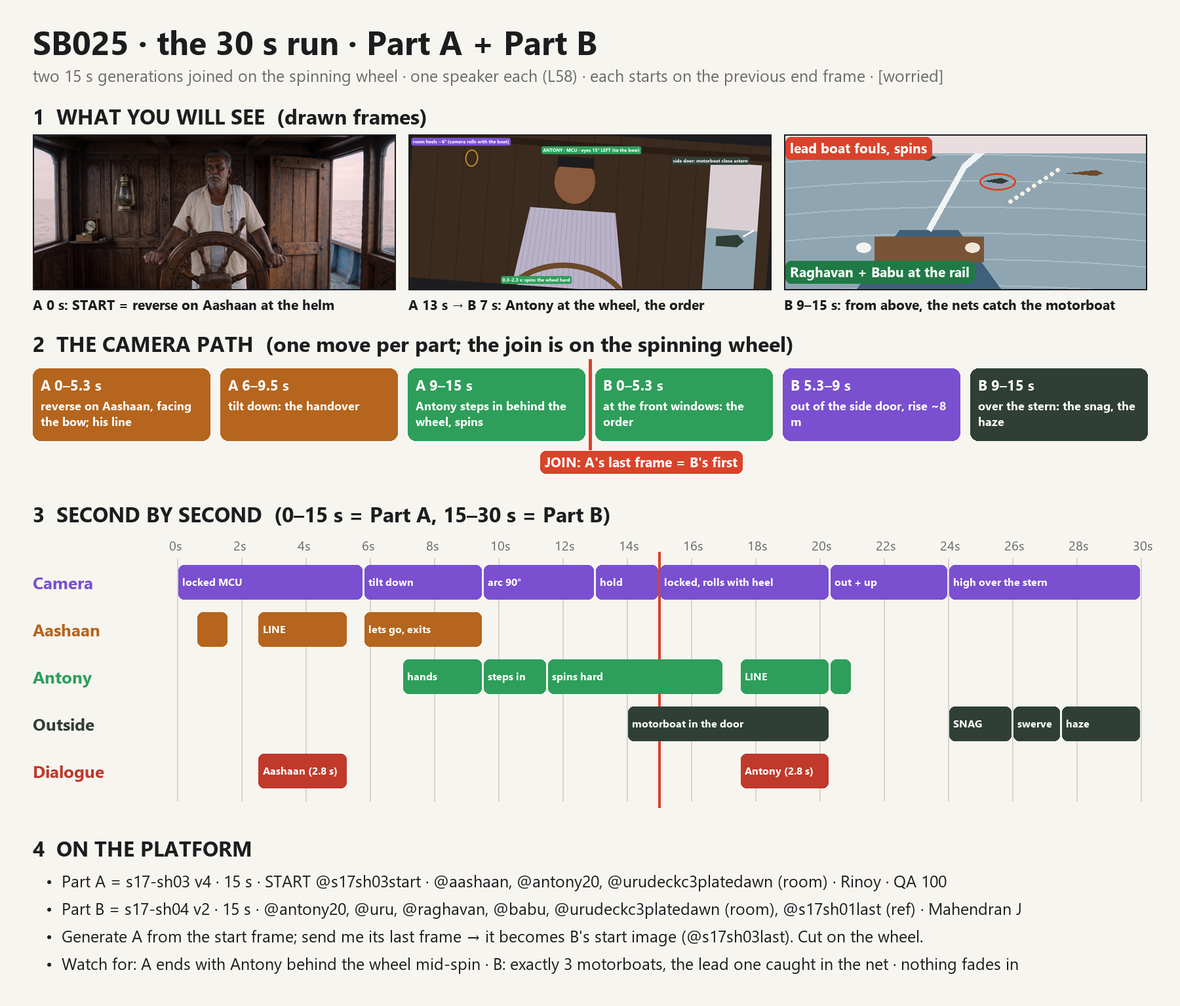
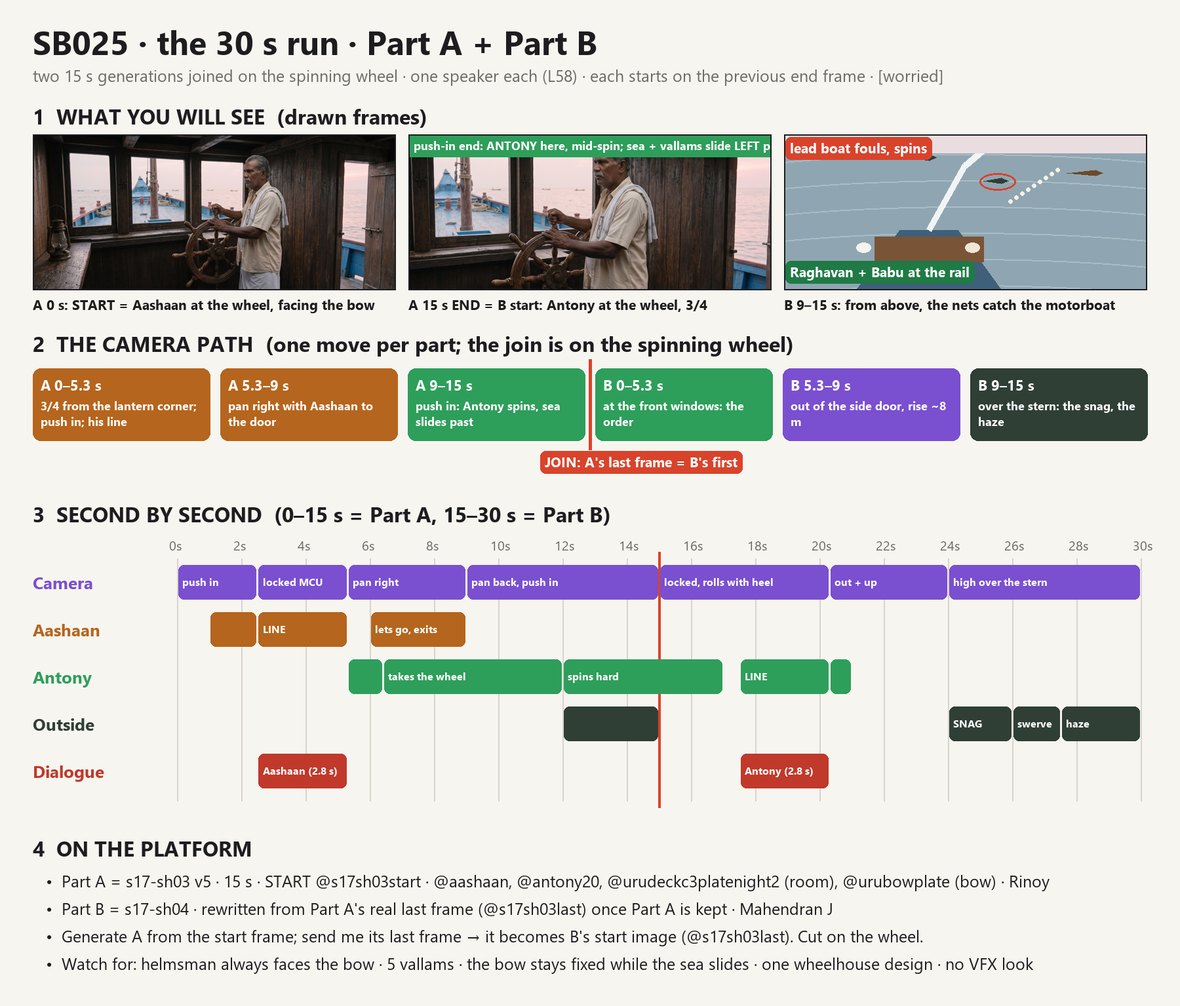
Ranjith: shot: s17-sh03 v5 (Part A in the new wheelhouse, 3/4 from the lantern corner, bow in the windows)

diff --git a/tools/shotsheets/s17-run-30s.py b/tools/shotsheets/s17-run-30s.py
@@ -1,4 +1,4 @@
-"""Clear sheet for the SB025 30 s run: Part A (s17-sh03 v2) + Part B (s17-sh04 v2), joined on the spinning wheel.
+"""Clear sheet for the SB025 30 s run: Part A (s17-sh03 v5) + Part B (s17-sh04 v2), joined on the spinning wheel.
 Reuses the drawn frames of the s17-sh03 and s17-sh04 sheets and draws the reveal from above."""
 from PIL import Image, ImageDraw, ImageFont
 import math
@@ -21,7 +21,8 @@ y0 = 155
 d.text((50, y0), "1  WHAT YOU WILL SEE  (drawn frames)", font=F(32, True), fill=INK)
 pw = (W - 140) // 3; ph = int(pw / 2.333)
 a = Image.open("scenes/showreel/attach/s17-sh03/00-START-s17sh03start.png").convert("RGB").resize((pw, ph))
-b = Image.open("scenes/showreel/storyboards/s17-sh04-clear.png").crop((50, 210, 1750, 210 + 728)).resize((pw, ph))
+b = Image.open("scenes/showreel/attach/s17-sh03/00-START-s17sh03start.png").convert("RGB").crop((700, 150, 2900, 150 + 943)).resize((pw, ph))
+bd = ImageDraw.Draw(b); bd.rectangle([0, 0, pw, 34], fill="#2e9e5b"); bd.text((8, 4), "push-in end: ANTONY here, mid-spin; sea + vallams slide LEFT past the bow", font=F(18, True), fill="white")
 # reveal from above (drawn)
 r = Image.new("RGB", (pw, ph), "#8fa6b2"); rd = ImageDraw.Draw(r)
 for k in range(6): rd.arc([-200, 30 + k * 40, pw + 200, 160 + k * 40], 200, 340, fill="#a9bcc5", width=2)
@@ -36,7 +37,7 @@ rd.polygon([(pw * .8, ph * .1), (pw * .85, ph * .08), (pw * .87, ph * .1), (pw *
 rd.rectangle([0, 0, pw, ph * .12], fill="#e9dde0")
 rd.ellipse([pw * .2, ph * .7, pw * .24, ph * .76], fill="#f3f3f0"); rd.ellipse([pw * .5, ph * .7, pw * .54, ph * .76], fill="#efe6d6")
 y = y0 + 50
-for i, (img, lab) in enumerate([(a, "A 0 s: START = reverse on Aashaan at the helm"), (b, "A 13 s → B 7 s: Antony at the wheel, the order"), (r, "B 9–15 s: from above, the nets catch the motorboat")]):
+for i, (img, lab) in enumerate([(a, "A 0 s: START = Aashaan at the wheel, facing the bow"), (b, "A 15 s END = B start: Antony at the wheel, 3/4"), (r, "B 9–15 s: from above, the nets catch the motorboat")]):
     x = 50 + i * (pw + 20); im.paste(img, (x, y)); d.rectangle([x, y, x + pw, y + ph], outline=INK, width=2)
     d.text((x, y + ph + 8), lab, font=F(21, True), fill=INK)
 x3 = 50 + 2 * (pw + 20)
@@ -45,7 +46,7 @@ tag((x3 + 8, y + 8), "lead boat fouls, spins", JOIN); tag((x3 + 8, y + ph - 40),
 # 2. the camera path
 y1 = y + ph + 60
 d.text((50, y1), "2  THE CAMERA PATH  (one move per part; the join is on the spinning wheel)", font=F(32, True), fill=INK)
-steps = [("A 0–5.3 s", "reverse on Aashaan, facing the bow; his line", AAS), ("A 6–9.5 s", "tilt down: the handover", AAS), ("A 9–15 s", "Antony steps in behind the wheel, spins", ANT),
+steps = [("A 0–5.3 s", "3/4 from the lantern corner; push in; his line", AAS), ("A 5.3–9 s", "pan right with Aashaan to the door", AAS), ("A 9–15 s", "push in: Antony spins, sea slides past", ANT),
          ("B 0–5.3 s", "at the front windows: the order", ANT), ("B 5.3–9 s", "out of the side door, rise ~8 m", CAM), ("B 9–15 s", "over the stern: the snag, the haze", MOT)]
 bx = 50; by = y1 + 60; bw = (W - 100 - 5 * 16) // 6
 for i, (t1, t2, col) in enumerate(steps):
@@ -64,10 +65,10 @@ d.line([jx, by - 14, jx, by + 124], fill=JOIN, width=5); tag((jx - 70, by + 130)
 y2 = by + 200
 d.text((50, y2), "3  SECOND BY SECOND  (0–15 s = Part A, 15–30 s = Part B)", font=F(32, True), fill=INK)
 tx, tw_ = 270, 1470; ty = y2 + 90; S = 30
-rows = [("Camera", CAM, [(0, 5.8, "locked MCU"), (5.8, 9.5, "tilt down"), (9.5, 13, "arc 90°"), (13, 15, "hold"), (15, 20.3, "locked, rolls with heel"), (20.3, 24, "out + up"), (24, 30, "high over the stern")]),
-        ("Aashaan", AAS, [(0.6, 1.6, "glance"), (2.5, 5.3, "LINE"), (5.8, 9.5, "lets go, exits")]),
-        ("Antony", ANT, [(7, 9.5, "hands"), (9.5, 11.5, "steps in"), (11.5, 17, "spins hard"), (17.5, 20.3, "LINE"), (20.3, 21, "glance")]),
-        ("Outside", MOT, [(14, 20.3, "motorboat in the door"), (24, 26, "SNAG"), (26, 27.5, "swerve"), (27.5, 30, "haze")]),
+rows = [("Camera", CAM, [(0, 2.5, "push in"), (2.5, 5.3, "locked MCU"), (5.3, 9, "pan right"), (9, 15, "pan back, push in"), (15, 20.3, "locked, rolls with heel"), (20.3, 24, "out + up"), (24, 30, "high over the stern")]),
+        ("Aashaan", AAS, [(1, 2.5, "glance, nod"), (2.5, 5.3, "LINE"), (6, 9, "lets go, exits")]),
+        ("Antony", ANT, [(5.3, 6.4, "steps in"), (6.4, 12, "takes the wheel"), (12, 17, "spins hard"), (17.5, 20.3, "LINE"), (20.3, 21, "glance")]),
+        ("Outside", MOT, [(12, 15, "sea slides past bow"), (24, 26, "SNAG"), (26, 27.5, "swerve"), (27.5, 30, "haze")]),
         ("Dialogue", LINE, [(2.5, 5.3, "Aashaan (2.8 s)"), (17.5, 20.3, "Antony (2.8 s)")])]
 for sec in range(0, 31, 2):
     x = tx + tw_ * sec / S; d.line([x, ty, x, ty + 72 * len(rows) + 10], fill="#d8d4cc", width=2); d.text((x - 12, ty - 34), f"{sec}s", font=F(20), fill=GREY)
@@ -83,10 +84,10 @@ for i, (lab, col, segs) in enumerate(rows):
 # 4. platform
 y3 = ty + 72 * len(rows) + 60
 d.text((50, y3), "4  ON THE PLATFORM", font=F(32, True), fill=INK)
-lines = ["Part A = s17-sh03 v4 · 15 s · START @s17sh03start · @aashaan, @antony20, @urudeckc3platedawn (room) · Rinoy · QA 100",
-         "Part B = s17-sh04 v2 · 15 s · @antony20, @uru, @raghavan, @babu, @urudeckc3platedawn (room), @s17sh01last (ref) · Mahendran J",
+lines = ["Part A = s17-sh03 v5 · 15 s · START @s17sh03start · @aashaan, @antony20, @urudeckc3platenight2 (room), @urubowplate (bow) · Rinoy",
+         "Part B = s17-sh04 · rewritten from Part A's real last frame (@s17sh03last) once Part A is kept · Mahendran J",
          "Generate A from the start frame; send me its last frame → it becomes B's start image (@s17sh03last). Cut on the wheel.",
-         "Watch for: A ends with Antony behind the wheel mid-spin · B: exactly 3 motorboats, the lead one caught in the net · nothing fades in"]
+         "Watch for: helmsman always faces the bow · 5 vallams · the bow stays fixed while the sea slides · one wheelhouse design · no VFX look"]
 for i, t in enumerate(lines): d.text((70, y3 + 55 + i * 42), "•  " + t, font=F(25), fill=INK)
 im = im.crop((0, 0, W, y3 + 55 + len(lines) * 42 + 40))
 im.save("scenes/showreel/storyboards/s17-run-30s-clear.png"); print(im.size)

diff --git a/scenes/showreel/retired/s17-sh03-v4.md b/scenes/showreel/retired/s17-sh03-v4.md
@@ -1,0 +1,111 @@
+# s17-sh03 · SB025 (Ref 17–19) — PART A of the 30 s run: the reverse on Aashaan at the helm; the handover; Antony starts the hard turn · 15 s · v4
+Status: **ready (Ranjith, 2026-11-22)** · Malayalam dialogue · a shot/reverse cut from s17-sh02 · start image `@s17sh03start` (waiting for Ranjith's approval) · v1–v3 retired (`retired/s17-sh03-v1.md` … `-v3.md`)
+Created by: Ranjith
+v4 (Ranjith, 2026-11-22): v3 put Aashaan facing aft with the bow behind him (L171). A helmsman faces the bow, so his face shot needs the camera between the wheel and the front windows looking aft, with the back wall behind him. That reverse cannot be reached by swinging the camera from s17-sh02's forward-looking end frame, so v4 starts on its own reverse start frame (Ranjith chose this: "New reverse start frame").
+Dialogue fix (Ranjith, 2026-11-22): the helm is ചുക്കാൻ, not ചക്രം.
+30 s run: two 15 s generations joined on the spinning wheel (L58, L147). Part A = this file; Part B = `s17-sh04.md`, which starts on Part A's last frame. The camera does not move position in Part A, so its end frame is the same view as Part B's first.
+Story: Aashaan, at the helm facing the bow, has just heard Antony's idea; he glances over his shoulder toward the engines through the side door, decides, and gives Antony the helm with one line; Antony's hands take the spokes, Aashaan goes out through the side door to the bow; Antony steps round into his place and starts spinning the wheel hard.
+Camera: between the front windows and the wheel, 1.6 m up, 50mm, looking aft at Aashaan behind the wheel (start frame); locked for the line; a slight tilt down to the hands at the handover and back up; ends on Antony behind the wheel facing the camera, mid-spin.
+Screen direction (L161): Antony looked toward frame right at Aashaan in s17-sh02; here Antony stands just left of the camera and Aashaan looks about 20° LEFT of the lens at him.
+Dialogue (storyboard SB025, authoritative Manglish: chukkaan pitikk. njaan munnil nokkaam.): AASHAAN — ചുക്കാൻ പിടിക്ക്. ഞാൻ മുന്നിൽ നോക്കാം.
+Voice: Aashaan = **Rinoy** (Professional narrator). Scene emotion: [worried] (one for SB025).
+Lessons applied: L34, L58, L61 (plate role line), L82 (helmsman behind the wheel facing the camera), L83, L141, L147, L159, L160, L161, L163, L166, L171 (helmsman faces the bow; back wall behind him), checklist 190; start image strategy (Ranjith).
+Attach: `@s17sh03start` (start image), `@aashaan` (full, 0–9 s), `@antony20` (full), `@urudeckc3platedawn` (background only: the room's materials and light), `@wheelhousenightref` (design reference only). No end image. Remove every other attachment (L88). **15 s.** 21:9, Malayalam.
+Left out: `@s17sh02end` (the forward view; kept as `storyboards/s17-sh02-end-ref.png`); `@urudeckc1plate` (harbour quay); `@wheelhouse` (only on Aswanth's account).
+Attach folder: `scenes/showreel/attach/s17-sh03/`
+Storyboard: `scenes/showreel/storyboards/s17-run-30s-clear.png` (never attached)
+Edit note (music): the chase score continues, ducked under the line, rising as the spin starts.
+
+## Prompt
+```text
+SCENE CONTEXT
+Dawn, 1998, open sea in Sri Lankan waters, inside the small wooden wheelhouse at the back of our uru's deckhouse. Three motorboats are chasing the uru close behind. The old skipper at the helm, facing the bow, has just heard Antony's idea; he glances over his shoulder toward the engines, decides, and gives Antony the helm with one Malayalam line, then hands it over and goes out through the side door; Antony steps round into his place behind the wheel and starts turning hard. One continuous shot, 15 seconds, starting exactly on the start frame. Emotion (one, for the whole shot): worried. Only Aashaan speaks, only in Malayalam; while he speaks he is the only person in frame.
+SPOKEN LANGUAGE: Malayalam. Every spoken word in this video is the exact Malayalam text given in quotes in AUDIO. No English words are spoken.
+
+MEMORY
+Place: the small wooden wheelhouse exactly as in the start frame, seen looking aft: the big spoked wooden wheel on its timber pedestal in the lower middle of the frame; behind it the back wall of dark carved wooden planks and panels, an unlit brass hurricane lantern on the wall at the left, a narrow shelf with a brass compass in a wooden box below it; at the right the open wooden side door with its weathered door hooked back, the blue side deck and a slice of calm pink-grey sea outside; small side windows at the left and right edges showing the sea. The front windows and the bow are behind the camera, never in frame.
+Light: hazy pink-grey dawn: soft daylight about 5800K from the front windows behind the camera falls evenly on the faces; the wood dim and warm dark brown; the side door bright pink-grey; no lamp lit.
+People: Aashaan at the helm, behind the wheel, facing the bow and the camera. Antony stands just left of the camera, out of frame, about 20 degrees left of the lens.
+FIRST FRAME (0.0s): exactly the start frame: Aashaan behind the wheel facing the camera, both hands on the rim, in a medium close-up, his eyes toward Antony about 20 degrees left of the lens; the back wall, the lantern, the compass shelf and the open side door behind him.
+
+ACTIVE REFERENCES
+@s17sh03start (start frame, 0.0s): the exact first frame: Aashaan at the helm behind the wheel facing the camera, the back wall with the lantern and the compass shelf, the open side door at the right, the hazy pink-grey dawn light. Everything starts exactly as in this image.
+@aashaan (full, 0.0s–9.0s): Aashaan, the old skipper, the only speaker: about 60, stocky, deeply sun-darkened weathered skin with lines and spots, tired kind eyes, grey hair combed straight back, a thick grey moustache, short white stubble on the chin and jaw; a cream half-sleeve cotton shirt worn open over a white sleeveless vest, reading spectacles hooked into the vest on his left side, a white cotton towel folded over his LEFT shoulder (on frame right as he faces the camera), a white mundu with a thin grey border. A native Kollam coastal Malayalam speaker; a deep, rough, unhurried older male voice. 100% matches the reference.
+@antony20 (full, 6.0s–15.0s): Antony, a young Kerala man about 22, round youthful clean-shaven face, short black hair combed back with a few loose strands, the lavender-grey and white thin vertical striped short-sleeve shirt with the sleeves rolled once, a thin silver chain, the grey-green checked mundu, barefoot. He never speaks in this shot. 100% matches the reference.
+@urudeckc3platedawn (background only, 0.0s–15.0s): our wheelhouse at this same dawn, exactly as on this plate: the dark carved wooden walls, the open side door onto the blue side deck, the spoked wheel, the pink-grey light. It shows the forward view; take the materials and the light from it, not its camera angle. 100% matches the reference.
+@wheelhousenightref (design reference only, 0.0s–15.0s): the wheelhouse as the team built it in an earlier night scene: the spoked wooden wheel with its brass hub, the plank walls, the wooden window frames, the hurricane lantern on the shelf. Take only the design of the room and the wheel from it; NOT its night light, NOT its moon, and NOT its people: every person comes only from their own reference sheet. 100% matches the reference.
+
+THE HELM
+One wooden ship's wheel about 90 cm across, dark teak worn pale where hands grip it, eight spokes ending in turned handles, a dull brass hub, on a square timber pedestal about 1 m high in front of it (between the wheel and the camera). The helmsman always stands behind the wheel, on the far side from the camera, facing the bow and the camera; the wheel never turns round and nobody stands between the wheel and the camera. It is the only wheel and it stays here inside the wheelhouse. At 6.0s Aashaan's hands lift off the rim; at 6.6s Antony's two hands reach in from the left and close on the rim; from 12.0s Antony spins it hard, hand over hand.
+
+AASHAAN GIVES THE HELM (most important)
+From 2.5s to 5.3s Aashaan, behind the wheel facing the bow and the camera, says the one Malayalam line to Antony in a medium close-up, his face filling about a third of the frame height, turned about 20 degrees left of the lens, head steady, mouth fully visible and evenly lit; he is the only person in frame. The decision shows before the line: a glance over his shoulder toward the engines, a breath, a short nod. After the line the handover happens on screen; Aashaan goes out through the side door at the right; Antony steps round the left of the wheel into his place behind it, facing the camera, and begins the hard turn.
+
+FORMAT MODE
+One continuous shot, 15 seconds, real time, no cut, no slow motion, 21:9 cinematic. Runs the full 15 seconds.
+
+CAMERA AND ACTION
+The camera stands between the front windows and the wheel, 1.6 m above the floor, about 1.6 m from the wheel, a 50mm lens, looking aft; it stays in this place the whole shot, only tilting slightly.
+0.0s to 1.0s — From the start frame: Aashaan listening to Antony, both hands on the rim, eyes about 20 degrees left of the lens.
+1.0s to 2.5s — He turns his head over his left shoulder (to frame right) toward the open side door and the scream of the engines for about half a second, then back to Antony; a breath, one short nod; his head settles, steady.
+2.5s to 5.3s — He says his line to Antony, head steady, voice low and firm.
+5.3s to 9.0s — The camera tilts down slightly to the rim: at 6.0s his hands lift off; at 6.6s Antony's two hands reach in from the left and close on the rim; Aashaan pats the top of the wheel once, steps back and to his left (to frame right) and goes out through the open side door, leaving the frame at the right by 9.0s.
+9.0s to 12.0s — The camera tilts back up to eye height; Antony steps in from the left round the left side of the wheel into the helmsman's place behind it, keeping one hand on the rim, and faces the camera and the bow.
+12.0s to 15.0s — Antony, behind the wheel facing the camera, eyes forward on the bow about 15 degrees left of the lens, spins the wheel hard, hand over hand, about one turn; from 13.0s the whole wheelhouse begins to heel, about 4 degrees by 15.0s; through the side door at the right a motorboat's bow surges into view close astern in spray. The shot ends mid-spin.
+
+EYELINES
+0.0s–1.0s: Aashaan's eyes on Antony, about 20 degrees left of the lens. 1.0s–1.6s: a glance over his left shoulder toward the side door (frame right). 1.6s–6.0s: on Antony, about 20 degrees left of the lens, level; never into the lens. 6.0s–9.0s: down to the hands, then to the side door as he goes. 9.0s–12.0s: Antony's eyes on the wheel as he steps in. 12.0s–15.0s: Antony's eyes forward on the bow, about 15 degrees left of the lens; never into the lens.
+
+DIALOGUE RULES
+Dialogue rules: whenever a character speaks, frame them in a medium close-up with their face filling at least a third of the frame height. The speaking face is turned toward the camera, no more than 30 degrees from the lens, upright and not lying sideways. Only one person speaks in the shot; everyone else keeps their mouth closed. The speaker's head stays steady during the line; head turns, gestures and camera moves happen only in pauses between lines. The mouth is always fully visible, with nothing in front of the face, and the face is lit with soft, even frontal light. Natural, clearly articulated mouth movements matching the dialogue.
+
+ACTING & MICRO-EXPRESSION
+Aashaan's baseline: steady, slow breathing, the brows slightly drawn, the moustache resting over a closed mouth. On the glance toward the door, the eyes narrow and the jaw sets; turning back, he holds Antony's eyes, one short nod, a lip press. During the line the brows ease a little, one slow blink, the chin firm: trust, not fear. After the line, a small exhale through the nose; his eyes soften on the hands before he turns away. Antony: breath fast and high; once behind the wheel, the jaw clenched on the spin, knuckles paling, the brows pulled together, eyes fixed on the bow. Restrained, real; no big gestures, no shouting faces.
+
+CAPTURE IMPERFECTIONS
+A slight, slow drift of the frame with the boat's roll throughout; 1.2s the frame shivers as the hull slaps a swell; 6.2s a tiny focus breath as the camera tilts down; 7.0s the spokes click softly as Antony takes the weight; 14.0s spray from the motorboat flashes across the side door.
+
+REAL-WORLD PHYSICS
+The uru, about 30 tonnes of wood, moves at about 13 km/h and rolls slowly about 3 degrees on the swell every 4–5 s; both men sway with it, knees soft; the towel on Aashaan's shoulder swings slightly. The unlit lantern sways a few centimetres with each roll. When Aashaan's hands leave the rim the rudder's pull turns the wheel a few degrees until Antony's hands stop it. When Antony spins it hard the rudder answers slowly: the bow swings about 2 degrees per second and the hull begins to heel outward, the horizon in the side door and the side windows sliding up. The motorboat, about 2 tonnes, runs at about 20 km/h close astern, throwing spray about 2 m high. Nothing moves by itself; every movement has a cause.
+
+PERFORMANCE
+Urgent but unhurried for Aashaan, urgent and physical for Antony; real and loose, never stiff or mechanical; both keep moving the whole time. An old skipper who has decided to trust the young man: the glance, the nod, the plain words, the pat on the wheel. The young man stepping into command: fast hands, eyes on the bow. No speech-making, no look into the lens.
+
+LIGHTING
+Soft, even frontal light on the faces from the hazy pink-grey dawn through the front windows behind the camera, about 5800K, a faint warm-pink cast in the highlights of Aashaan's grey hair and white towel; the back wall dim, warm dark brown; the side door and side windows bright pink-grey, never blown out; no lamp lit, no golden light.
+
+AUDIO
+Sound effects only — natural on-location sound, the soundtrack carries no music. No music at all: no score, no background music, no song, no humming, and no cinematic sound design: no riser, no whoosh, no swell. The creak of the wooden wheelhouse and the wheel; wind and sea through the side door; the whine of outboard engines behind the uru, loud through the door, rising to a scream as a motorboat surges up at 14.0s; the soft click of the spokes at the handover; Aashaan's sandals on the floorboards as he goes; the rattle of the rudder chain and Antony's hard breathing as he spins the wheel.
+Spoken language: Malayalam only, not English and not a translation. Aashaan says the exact Malayalam words written in quotes below, in everyday Kollam coastal Malayalam pronunciation, and nothing else. Lip-sync exact; every word is spoken on camera by Aashaan, who is alone in frame while he speaks. The line is spoken once, exactly as written. The dialogue language is Malayalam.
+
+[worried]
+2.5s to 5.3s: Aashaan, Kollam coastal accent, a deep rough older voice, low, firm and unhurried; the first sentence short and decisive with the stress on "പിടിക്ക്"; a half-second pause at the full stop; the second sentence a little softer, the stress on "മുന്നിൽ", ending with a falling pitch. About 2.8 seconds.
+"ചുക്കാൻ പിടിക്ക്. ഞാൻ മുന്നിൽ നോക്കാം."
+Nobody else speaks. Antony keeps his mouth closed the whole shot. From 5.3s to 15.0s nobody speaks.
+
+STYLE
+Photoreal 1998 Kerala period feature film, Every frame looks like real footage filmed on a real wooden boat at sea, never like VFX or CGI: real water with real foam, spray and reflections, real wood, real skin and cloth, every boat and person sitting in the same light and haze as the rest of the frame, with soft natural edges and real contact shadows; no composited or pasted-in look, no glowing outlines, no 3D-render or game look, no over-clean water, no digital smoke; the haze is real sea mist. 24fps, fine 35mm grain, gentle halation on the bright door and side windows, visible skin texture and real pores, real wood grain, no smoothing. Shot on a Sony Venice 2 full-frame digital cinema camera: very wide dynamic range that holds the brightest light and the deepest shade in one frame; clean, low-noise shadows; soft, gradual highlight roll-off; accurate, natural colour with rich, true skin tones; gentle filmic contrast; fine, organic texture; no over-sharpening, no glossy or video look. Hazy pink-grey dawn light against warm dark wood.
+
+CONSTRAINTS
+The shot starts exactly on the start frame and the room never changes. The helmsman, first Aashaan and then Antony, always stands behind the wheel facing the bow and the camera; nobody ever stands between the wheel and the camera, and the front windows and the bow are never in frame. While Aashaan speaks he is the only person in the frame; Antony appears only as hands from 6.6s, then in full from 9.0s, and never speaks. Exactly one wheel, inside the wheelhouse. The towel stays on Aashaan's LEFT shoulder. The motorboat appears only through the side door, never alongside; no weapons, no flags, no lettering. No English words, no subtitles, no lettering anywhere. No hand or object near the lens. No cut, no zoom.
+
+POSITIVE LOCKS
+Starts on the start frame. Exactly one speaker, Aashaan, as on @aashaan, one Malayalam line spoken once in Malayalam from 2.5s to 5.3s, his eyes about 20 degrees left of the lens. Exactly one wheel; his hands leave it at 6.0s, Antony's hands take it at 6.6s. Aashaan leaves through the side door at the right by 9.0s. Antony ends behind the wheel facing the camera, mid-spin, the room starting to heel, a motorboat in the side door. Everyone moving the whole time. Runs the full 15 seconds.
+
+INTENT: When @aashaan says "ചുക്കാൻ പിടിക്ക്. ഞാൻ മുന്നിൽ നോക്കാം." let it be an old skipper deciding in one breath to trust the young man with the boat: plain, low, certain.
+```
+
+## Settings
+- **Duration: 15 s**
+- Aspect ratio 21:9
+- Start image: `@s17sh03start` (00-START in the attach folder) · no end image
+- Dialogue language: Malayalam · Aashaan's voice: **Rinoy**
+- Attach: `@s17sh03start` (start), `@aashaan` (full), `@antony20` (full), `@urudeckc3platedawn` (background only), `@wheelhousenightref` (design reference)
+- Music: none in the generation; the chase score continues in the edit
+
+## QC
+PROMPT QA — s17-sh03 v4 (Part A) · Score 100/100 · Ready (qc_panel.py 100). Helmsman behind the wheel facing the bow and the camera, back wall behind him, front windows never in frame (L171); Aashaan alone in frame for the line (L34); one speaker (L58); line ചുക്കാൻ matches the updated storyboard; Malayalam 5+ times; dialogue block word for word; screen direction (L161); the camera keeps its place, so the end frame = Part B's first view; no 'still' (L83). IDs @aashaan, @antony20, @urudeckc3platedawn registered; @s17sh03start waits for approval. Image QA of the start frame: orientation right, towel and spectacles on his left (frame right), face matches the sheet, back wall/lantern/compass/side door at the right.
+
+## Generation results
+- v2 [failed] the assets-only take opened on a different camera angle from the end of s17-sh02, so the cut jumped (Ranjith, 2026-11-21). Fix: v3 starts on s17-sh02's end frame.
+- v3 [failed] Aashaan came out between the wheel and the front windows facing aft, the bow behind him: the helm turned the wrong way (L171); the line was also written with ചക്രം, corrected to ചുക്കാൻ (Ranjith, 2026-11-22). Frame: `evidence/s17-sh03-v3/frame.webp`.

diff --git a/scenes/showreel/attach/s17-sh03/README.md b/scenes/showreel/attach/s17-sh03/README.md
@@ -1,6 +1,6 @@
-# s17-sh03 v4 = PART A of the 30 s run
-- 00-START-s17sh03start.png → START IMAGE slot, @s17sh03start (reverse on Aashaan; waits for approval)
+# s17-sh03 v5 = PART A of the 30 s run (Ranjith's wheelhouse, 3/4 from the lantern-shelf corner)
+- 00-START-s17sh03start.png → START IMAGE slot, @s17sh03start (Aashaan at the wheel facing the bow; waits for approval)
 - 01-aashaan.jpg → @aashaan (full)
 - 02-antony20.jpg → @antony20 (full)
-- 03-urudeckc3platedawn.png → @urudeckc3platedawn (background only)
-- 04-wheelhousenightref.png → @wheelhousenightref (design reference only: room and wheel; never its people or night light)
+- 03-urudeckc3platenight2.png → @urudeckc3platenight2 (the wheelhouse design: take the room, NOT its night, moon or lit lantern)
+- 04-urubowplate.png → @urubowplate (background only: the bow seen through the front windows; take the deck, NOT its night)
